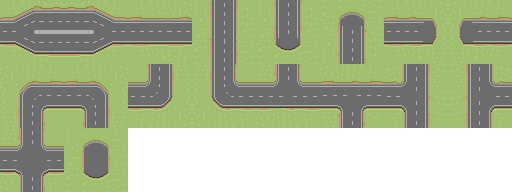
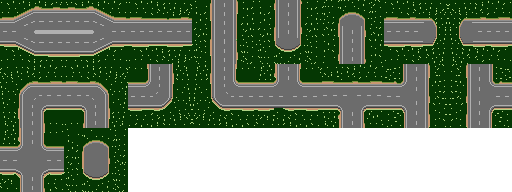
style: ajuste visual de carretera intro, paleta nocturna y correccion gale-engine en requirements

diff --git a/src/states/game/IntroRoadState.py b/src/states/game/IntroRoadState.py
@@ -304,7 +304,7 @@ class IntroRoadState(BaseState):
 
         # 2. Road & Grass
         road_y = 120
-        pygame.draw.rect(surface, (160, 192, 112), (0, road_y - 30, settings.VIRTUAL_WIDTH, 110))
+        pygame.draw.rect(surface, (5, 55, 3), (0, road_y, settings.VIRTUAL_WIDTH, 110))
 
         # Seamless road tiling
         for tx in range(-64, settings.VIRTUAL_WIDTH + 64, 64):

diff --git a/CHANGELOG.md b/CHANGELOG.md
@@ -7,6 +7,12 @@ and this project adheres to [Semantic Versioning](https://semver.org/spec/v2.0.0
 
 ## [Unreleased]
 
+- **Intro Visual Atmosphere Calibration & Dependency Fix (`src/states/game/IntroRoadState.py`, `assets/graphics/intro/roads2W.png`, `requirements.txt`)**:
+  - **Nocturnal Grass Palette (`IntroRoadState.py`)**: Updated roadside ground color to deep nocturnal pine green `(5, 55, 3)` (from bright olive `(160, 192, 112)`), seamlessly blending the highway verge into the midnight mountain aesthetic.
+  - **Roadside Horizon Alignment (`IntroRoadState.py`)**: Re-anchored grass rectangle positioning to `road_y` (removing the `-30px` vertical overlap), creating clean visual layer separation between the highway asphalt and the distant mountain silhouettes.
+  - **Highway Asphalt Palette Tuning (`roads2W.png`)**: Calibrated road surface colors for cohesive night-time contrast with vehicle headlights and particle smoke.
+  - **Engine Dependency Specification (`requirements.txt`)**: Updated engine requirement to `gale-engine>=1.16.0` (official PyPI package by Prof. Alejandro Mujica), preventing build failures caused by the legacy abandoned `gale` package.
+
 - **Horror Atmosphere & Pacing Balancing (`src/systems/LightingSystem.py`, `AudioManager.py`, `DirectorAI.py`, `settings.py`, `Kitchen.json`)**:
   - **Shadowy El Silbón Silhouette**: Removed glowing eye points (`MONSTER_EYE_LIGHT_RADIUS = 0`), fully cloaking the monster in darkness as an unseen, terrifying presence.
   - **Denser Ambient Darkness**: Deepened base ambient darkness alpha to `252.0` (from `240.0`) and capture sequence alpha to `245.0` (from `200.0`) for intense claustrophobia and reliance on the flashlight.
